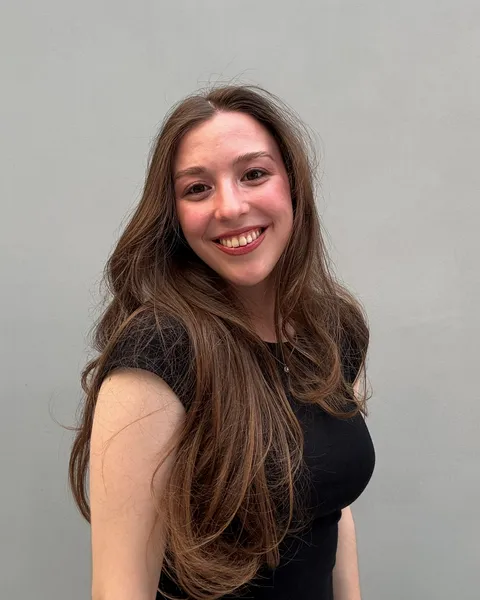
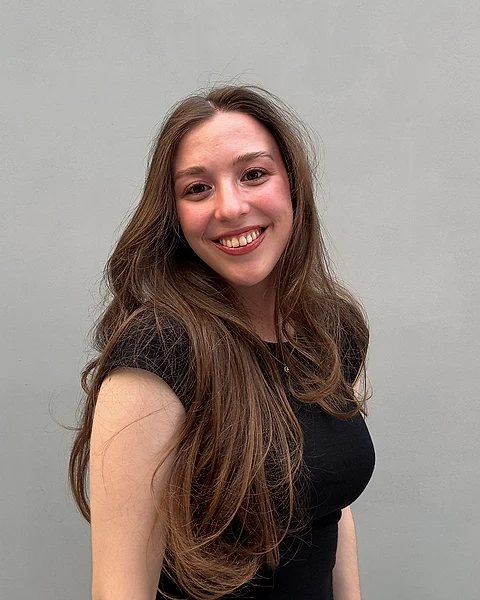
Fotoğraf: üst katmanlar kaldırıldı, kalite artırıldı; unvan ve giriş cümlesi düzeltildi

diff --git a/index.html b/index.html
@@ -3,14 +3,14 @@
   <head>
     <meta charset="utf-8">
     <meta name="viewport" content="width=device-width, initial-scale=1">
-    <title>Öznur Demiral — Junior yazılım geliştirici</title>
+    <title>Öznur Demiral — Junior Yazılım Geliştirici</title>
     <meta name="description" content="Öznur Demiral — Bursa'da yaşayan, web ve Python ile ilgilenen junior yazılım geliştirici. Projeler, yolculuk ve iletişim.">
     <meta name="theme-color" content="#efe8df">
     <link rel="canonical" href="https://demiraloznur.github.io/">
     <link rel="icon" href="assets/favicon.svg" type="image/svg+xml">
     <meta property="og:type" content="website">
     <meta property="og:locale" content="tr_TR">
-    <meta property="og:title" content="Öznur Demiral — Junior yazılım geliştirici">
+    <meta property="og:title" content="Öznur Demiral — Junior Yazılım Geliştirici">
     <meta property="og:description" content="Meraklı, gelişime açık. Web ve Python ile ihtiyaca yönelik, sade çözümler.">
     <meta property="og:url" content="https://demiraloznur.github.io/">
     <meta property="og:image" content="https://demiraloznur.github.io/assets/img/oznur-960.jpg">
@@ -53,16 +53,14 @@
       <section id="ust" class="bolum bolum--ust" aria-label="Tanıtım">
         <div class="bento">
           <div class="kutu kutu--baslik">
-            <p class="etiket">Junior yazılım geliştirici</p>
+            <p class="etiket">Junior Yazılım Geliştirici</p>
             <h1 class="dev-baslik">Meraklı.<br>Gelişime açık.</h1>
-            <p class="giris">Merhaba, ben Öznur. Web ve Python ile ihtiyaca yönelik, sade çözümler üretmeyi seviyorum.</p>
+            <p class="giris">Merhaba, ben Öznur. Web ve Python ile her işin ihtiyacına göre şekillenen çözümler üretmeyi seviyorum.</p>
           </div>
 
           <figure class="kutu kutu--foto">
-            <span class="kure kure--bir" aria-hidden="true"></span>
-            <span class="kure kure--iki" aria-hidden="true"></span>
             <picture>
-              <source type="image/webp" srcset="assets/img/oznur-480.webp 480w, assets/img/oznur-960.webp 960w" sizes="(max-width: 560px) 100vw, 50vw">
+              <source type="image/webp" srcset="assets/img/oznur-480.webp 480w, assets/img/oznur-960.webp 960w, assets/img/oznur-1440.webp 1440w" sizes="(max-width: 560px) 100vw, (max-width: 1200px) 50vw, 600px">
               <img src="assets/img/oznur-960.jpg" width="960" height="1200" alt="Öznur Demiral'ın portresi" fetchpriority="high">
             </picture>
           </figure>

diff --git a/css/style.css b/css/style.css
@@ -219,28 +219,19 @@ a { color: inherit; }
   height: 100%;
 }
 
+/* Fotoğrafın üstünde katman yok: hareket fotoğrafın kendisinde. */
 .kutu--foto img {
   object-fit: cover;
   object-position: 50% 25%;
-  mix-blend-mode: multiply;
+  animation: yaklas 1.8s var(--egri) both;
+  transition: transform 1.2s var(--egri);
 }
 
+.kutu--foto:hover img { transform: scale(1.04); }
 
-.kure {
-  position: absolute;
-  border-radius: 50%;
-  background: color-mix(in srgb, var(--bg) 40%, transparent);
-  animation: suzul 9s ease-in-out infinite;
-  z-index: 1;
-  pointer-events: none;
-  mix-blend-mode: soft-light;
-}
-.kure--bir { width: 45%; aspect-ratio: 1; top: 6%; left: -8%; }
-.kure--iki { width: 28%; aspect-ratio: 1; bottom: 8%; right: -4%; animation-delay: -4.5s; }
-
-@keyframes suzul {
-  0%, 100% { transform: translate(0, 0) scale(1); }
-  50% { transform: translate(18px, -14px) scale(1.08); }
+@keyframes yaklas {
+  from { transform: scale(1.12); opacity: 0; }
+  to { transform: scale(1); opacity: 1; }
 }
 
 .kutu--genis { grid-column: span 2; }
